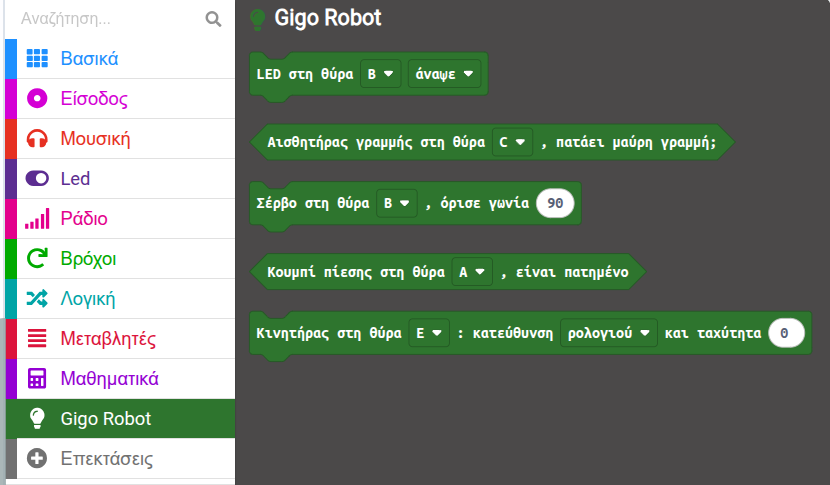
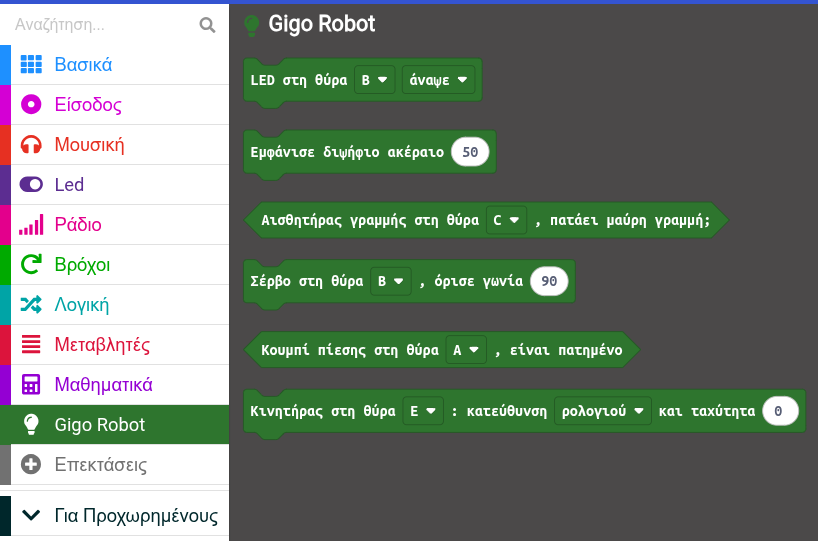
Προσθήκη υποστήριξης για εμφάνιση διψήφιων ακεραίων

diff --git a/README.md b/README.md
@@ -40,5 +40,8 @@
 
 1. Κατεβάζεις από τα [releases](https://github.com/ale3andro/pxt-makecode-gigo/releases) του αποθετηρίου τo hex αρχείο με την τελευταία έκδοση και το κάνεις import από το **+ Επεκτάσεις** και μετά **Import File**.
 
+## Αλλαγές στον κώδικα - "κτίσιμο" νέου πρόσθετου
+
+pxt build
 
 Καλή διασκέδαση
